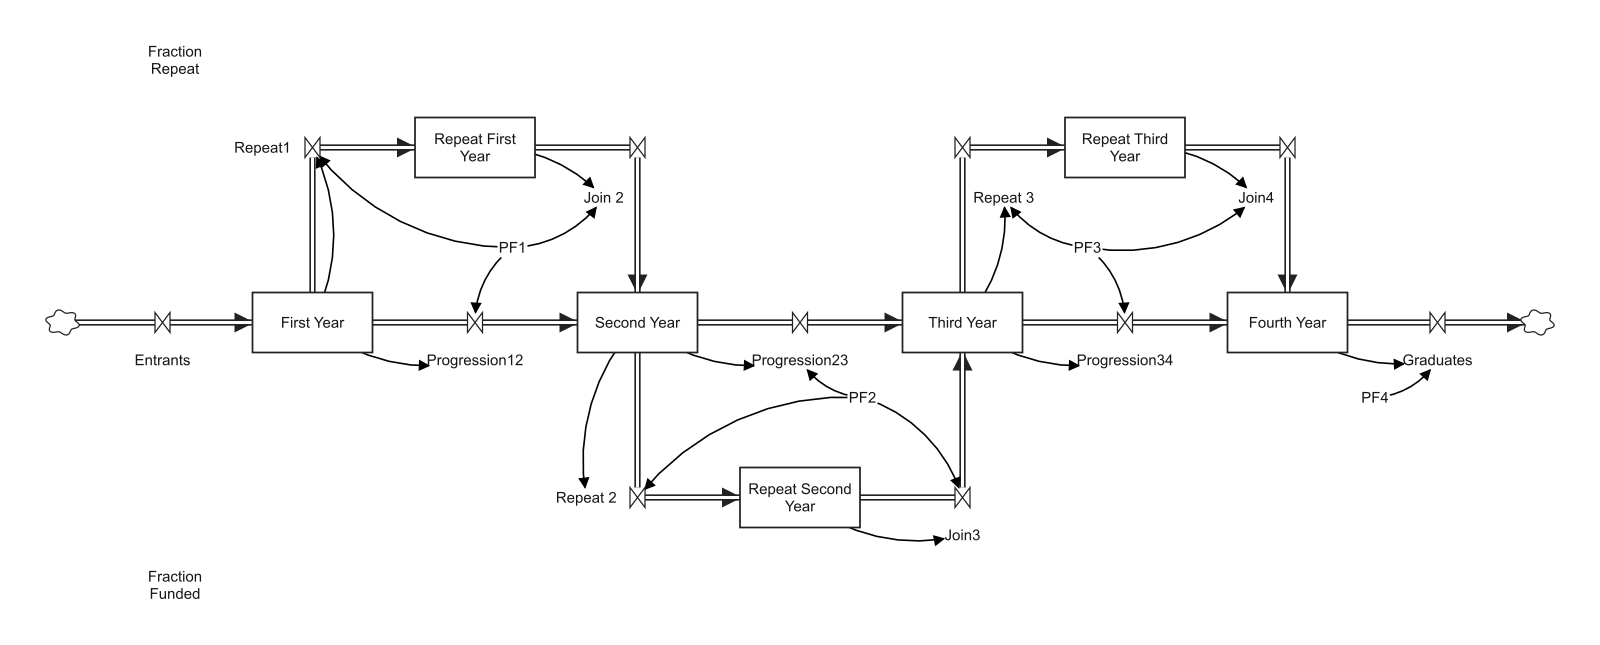
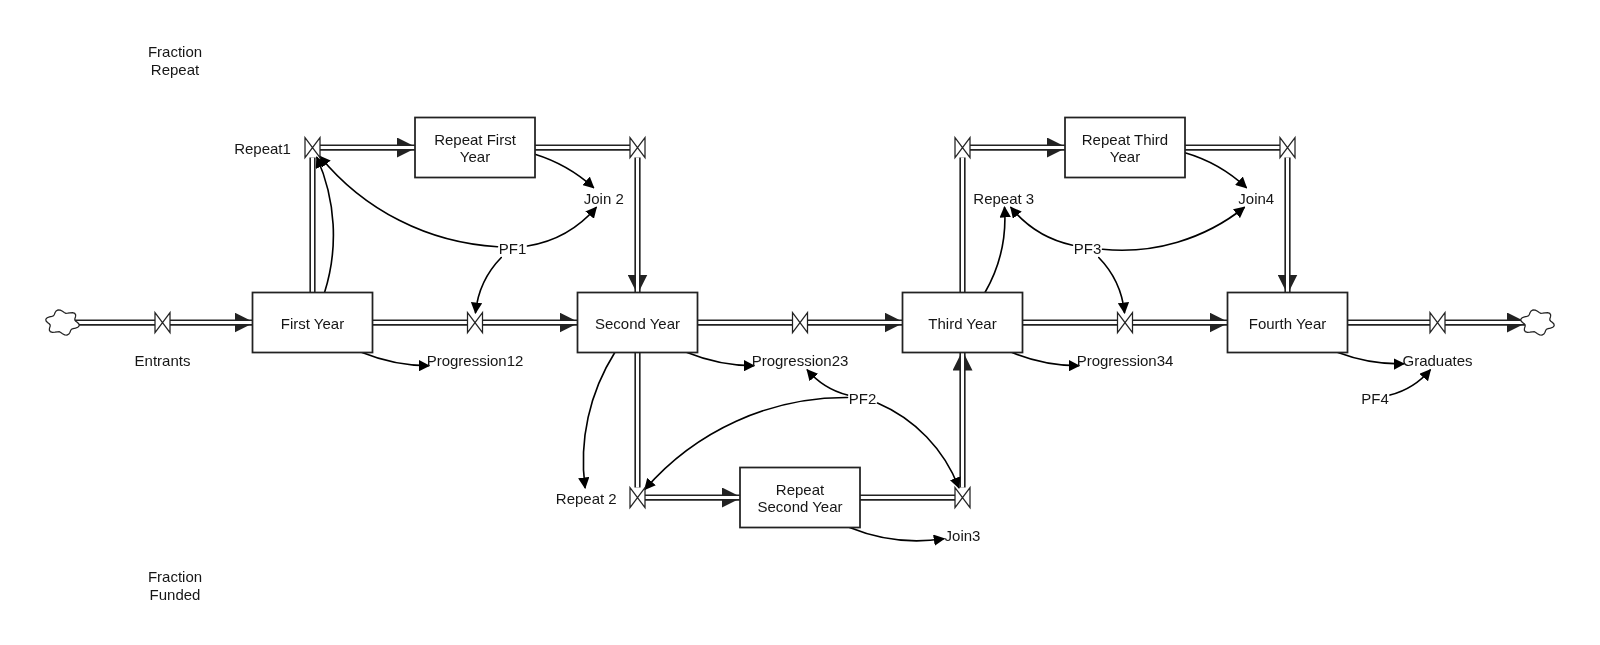
2.7.2: draw preview information links as true SVG arcs with round caps; revert 2.7.1 arc flattening

diff --git a/tests/test_natural_layout.py b/tests/test_natural_layout.py
@@ -258,8 +258,8 @@ def test_soft_arcs_follow_the_k_rule(chains):
     assert max(ratios) <= MAX_ARC_RATIO + 0.01
     curved = [k for k in ratios if k > 0.01]
     assert len(curved) >= len(ratios) * 0.8
-    # 目标 0.08，长箭头矢高限 24px、最低 0.04，减少 Vensim 折线化后的折点
-    assert 0.035 <= sum(curved) / len(curved) <= 0.1
+    # Vensim 官方示例的弧度中位数约 0.14；目标 0.12
+    assert 0.08 <= sum(curved) / len(curved) <= 0.16
 
 
 def test_time_reserved_area_and_initial_values(chains):
@@ -435,9 +435,54 @@ def test_preview_draws_arcs_clouds_and_time_area(tmp_path, chains):
     assert "Short arrows" in html and "Non-native clouds" in html
     after_view = html.split("<h1>After</h1>", 1)[1]
     arcs = [part for part in after_view.split('<path d="M')[1:] if 'marker-end="url(#head' in part]
-    # 圆弧按 0.5px 容差离散为折线：绝大多数信息线应有多于两个点。
-    curved = [part for part in arcs if part.split('"', 1)[0].count(" L") >= 3]
+    # 信息线写成真正的 SVG 圆弧（A 命令），不再拆成短直线段；线端为圆头。
+    curved = [part for part in arcs if " A" in part.split('"', 1)[0]]
     assert arcs and len(curved) >= 0.8 * len(arcs)
+    assert all(" L" not in part.split('"', 1)[0] for part in curved)
+    assert all('stroke-linecap="round"' in part.split("/>", 1)[0] for part in arcs)
+
+
+def _svg_arc_center(x1, y1, r, large, sweep, x2, y2):
+    """SVG 端点参数 → 圆心（圆的情形）。"""
+    mx, my = (x1 + x2) / 2, (y1 + y2) / 2
+    dx, dy = (x2 - x1) / 2, (y2 - y1) / 2
+    half = math.hypot(dx, dy)
+    h = math.sqrt(max(r * r - half * half, 0.0))
+    sign = 1 if large != sweep else -1
+    return mx - sign * h * dy / half, my + sign * h * dx / half
+
+
+def test_preview_arc_matches_native_circle_and_endpoints(chains):
+    from sketch_geometry import arc_svg_data, arrow_path, circle_through
+
+    _source, target = chains
+    view = load_mdl(target)[1][0]
+    checked = 0
+    for arrow in view.arrows:
+        if arrow.is_physical_flow or arrow.shape != 1 or len(arrow.points) != 1:
+            continue
+        path = arrow_path(view, arrow)
+        data = arc_svg_data(view, arrow, path)
+        if " A" not in data:
+            continue
+        move, arc = data[1:].split(" A")
+        x1, y1 = map(float, move.split(","))
+        radii, _rotation, large, sweep, end = arc.split()
+        r, large, sweep = float(radii.split(",")[0]), int(large), int(sweep)
+        x2, y2 = map(float, end.split(","))
+        # 起点、终点与裁剪后的折线完全一致：箭头落点不变
+        assert math.dist((x1, y1), path[0]) < 0.01
+        assert math.dist((x2, y2), path[-1]) < 0.01
+        source, dest = view.objects[arrow.from_id], view.objects[arrow.to_id]
+        center, radius = circle_through((source.x, source.y), arrow.points[0], (dest.x, dest.y))
+        assert abs(r - radius) < 0.01
+        # 标志位选出的圆心就是原生圆弧的圆心：方向没有画反
+        assert math.dist(_svg_arc_center(x1, y1, r, large, sweep, x2, y2), center) < 0.5
+        # 折线中点落在这条圆弧上
+        mid = path[len(path) // 2]
+        assert abs(math.dist(mid, center) - radius) < 0.6
+        checked += 1
+    assert checked >= 5
 
 
 def test_build_defaults_to_natural_with_native_clouds(tmp_path):

diff --git a/skills/vensim-skill/scripts/sketch_geometry.py b/skills/vensim-skill/scripts/sketch_geometry.py
@@ -132,17 +132,27 @@ def lerp(a, b, t):
     return a[0] + (b[0] - a[0]) * t, a[1] + (b[1] - a[1]) * t
 
 
-def circle_path(start, control, end, tolerance=0.5):
-    """经过三个点的圆弧，选取包含控制点的有向弧；共线退化为直线。"""
+def circle_through(start, control, end):
+    """经过三个点的圆，返回 (圆心, 半径)；三点共线时返回 None。"""
     bx, by = control[0] - start[0], control[1] - start[1]
     cx, cy = end[0] - start[0], end[1] - start[1]
     determinant = 2 * (bx * cy - by * cx)
     if abs(determinant) < EPS * max(1, math.hypot(bx, by) * math.hypot(cx, cy)):
-        return [start, end]
+        return None
     ux = (cy * (bx * bx + by * by) - by * (cx * cx + cy * cy)) / determinant
     uy = (bx * (cx * cx + cy * cy) - cx * (bx * bx + by * by)) / determinant
-    center = start[0] + ux, start[1] + uy
-    radius = math.hypot(ux, uy)
+    return (start[0] + ux, start[1] + uy), math.hypot(ux, uy)
+
+
+def circle_path(start, control, end, tolerance=0.5):
+    """经过三个点的圆弧，选取包含控制点的有向弧；共线退化为直线。
+
+    返回的折线只用于碰撞和长度计算；预览输出用 arc_svg_data 画真正的圆弧。
+    """
+    circle = circle_through(start, control, end)
+    if circle is None:
+        return [start, end]
+    center, radius = circle
     first = math.atan2(start[1] - center[1], start[0] - center[0])
     middle = math.atan2(control[1] - center[1], control[0] - center[0])
     last = math.atan2(end[1] - center[1], end[0] - center[0])
@@ -160,6 +170,44 @@ def circle_path(start, control, end, tolerance=0.5):
     ]
     path[0], path[-1] = start, end
     return path
+
+
+def arc_svg_data(view, arrow, path):
+    """信息箭头的 SVG 路径数据。
+
+    单控制点圆弧写成 SVG 椭圆弧命令（A），起点、终点取裁剪后折线的两端，
+    圆心和半径与 circle_path 相同，所以线的位置和箭头落点不变，只是不再
+    由短直线段拼成，放大不会出现折角。直线和其他形状仍按折线输出。
+    """
+    if len(path) < 2:
+        return ""
+    start, end = path[0], path[-1]
+    source, target = view.objects.get(arrow.from_id), view.objects.get(arrow.to_id)
+    circle = None
+    if (
+        source is not None
+        and target is not None
+        and arrow.shape == 1
+        and len(arrow.points) == 1
+        and len(path) > 2
+    ):
+        circle = circle_through((source.x, source.y), arrow.points[0], (target.x, target.y))
+    if circle is None:
+        return "M" + " L".join(f"{x:.2f},{y:.2f}" for x, y in path)
+    center, radius = circle
+    # 沿折线累计转角，得到裁剪后可见弧段的方向和扫角
+    sweep = 0.0
+    previous = math.atan2(path[0][1] - center[1], path[0][0] - center[0])
+    for x, y in path[1:]:
+        angle = math.atan2(y - center[1], x - center[0])
+        sweep += (angle - previous + math.pi) % math.tau - math.pi
+        previous = angle
+    large = 1 if abs(sweep) > math.pi else 0
+    clockwise = 1 if sweep > 0 else 0  # SVG 的 y 轴向下，角度增大即 sweep-flag=1
+    return (
+        f"M{start[0]:.2f},{start[1]:.2f} "
+        f"A{radius:.2f},{radius:.2f} 0 {large} {clockwise} {end[0]:.2f},{end[1]:.2f}"
+    )
 
 
 def trim_path(points, source, target):

diff --git a/skills/vensim-skill/scripts/arc_routing.py b/skills/vensim-skill/scripts/arc_routing.py
@@ -1,14 +1,10 @@
 """信息箭头的圆弧路由：Vensim 普通箭头加一个控制点即画成圆弧。
 
 控制点 = 弦中点 + k·(dy, −dx)，(dx, dy) 为起点中心指向终点中心的向量，|k| 为
-矢高与弦长之比。每条箭头在 0、±0.04、±0.08、±0.12 中选取：先满足与 visual
+矢高与弦长之比。每条箭头在 0、±0.06、±0.12、±0.18 中选取：先满足与 visual
 相同的硬约束（不与其他连线或管道交叉、不穿文字框、不压 <Time> 预留区、
-可见长度不少于 PREFERRED_ARROW、控制点不落进两端文字框），再选接近目标弧度、
+可见长度不少于 PREFERRED_ARROW、控制点不落进两端文字框），再选接近 0.12、
 离文字较远、与同一节点其他箭头张开足够角度的弧。
-
-目标弧度随弦长收紧：Vensim 把圆弧按固定转角（实测约 6°）切成直线段来画，
-弧扫过的角度越大折点越多，放大后像毛刺。短箭头取 0.08，长箭头把矢高限制在
-MAX_SAGITTA 以内，扫角小、折点少，线条更顺。
 """
 
 from __future__ import annotations
@@ -35,23 +31,17 @@ from sketch_geometry import (
 # 圆弧参数
 # ---------------------------------------------------------------------------
 
-# 弧度 k = 矢高 / 弦长，扫角 = 4·atan(2k)。Vensim 官方示例信息线弧度中位数约 0.14
-# （四分位 0.08–0.22）；但 Vensim 按约 6° 一段把圆弧画成折线，k=0.12 的弧扫角 54°、
-# 有 9 个折点，放大后能看到一节一节的毛刺。这里取四分位下沿 0.08（扫角 36°），
-# 长箭头再按 MAX_SAGITTA 收紧，最低 0.04（扫角 18°，约 3 个折点）。
-ARC_RATIOS = (0.04, 0.08, 0.12)
-TARGET_RATIO = 0.08
-MIN_TARGET_RATIO = 0.04
-MAX_ARC_RATIO = 0.12
-MAX_SAGITTA = 24.0  # 长箭头矢高上限（像素）
+# 弧度 k = 矢高 / 弦长。Vensim 官方示例模型中信息线弧度的中位数约 0.14
+# （四分位 0.08–0.22），各弦长区间基本一致；这里取略缓的 0.12 为目标
+ARC_RATIOS = (0.06, 0.12, 0.18)
+TARGET_RATIO = 0.12
+MAX_ARC_RATIO = 0.18
 SPREAD_ANGLE = math.radians(28)
 
 
 def target_ratio(chord: float) -> float:
-    """期望弧度：短箭头取 TARGET_RATIO，长箭头矢高不超过 MAX_SAGITTA，最低 MIN_TARGET_RATIO。"""
-    if chord <= 0:
-        return TARGET_RATIO
-    return max(MIN_TARGET_RATIO, min(TARGET_RATIO, MAX_SAGITTA / chord))
+    """期望弧度；真实模型的弧度与弦长关系不大，统一取 TARGET_RATIO。"""
+    return TARGET_RATIO
 
 
 def control_point(source, target, ratio: float) -> tuple[int, int]:

diff --git a/skills/vensim-skill/scripts/natural_layout.py b/skills/vensim-skill/scripts/natural_layout.py
@@ -27,7 +27,7 @@ import re
 import time
 from collections import Counter, defaultdict
 
-from arc_routing import TARGET_RATIO, arc_ratio, route_arcs
+from arc_routing import arc_ratio, route_arcs
 from sketch_geometry import (
     LAYOUT_CLEARANCE,
     NATIVE_CLOUD_CODE,
@@ -88,11 +88,10 @@ BOUND_MARGIN = 90.0
 ARROW_CLEAR = 7.0  # 直线近似比检查器（6px）多留 1px，给圆弧留余量
 GAP_X, GAP_Y = 14.0, 10.0  # 文字框之间的最小净距
 NARROW_ANGLE = math.radians(20)
-# 过短判断按目标弧度 TARGET_RATIO 估计可见长度：两端切线偏离弦 atan(4k)，宽而扁的
+# 过短判断按目标弧度 k=0.12 估计可见长度：两端切线偏离弦约 26°，宽而扁的
 # 文字框会从上下边离开，可见部分比直线裁剪更长
 SHORT_LIMIT = PREFERRED_ARROW
-ARC_END_TURN = math.atan(4 * TARGET_RATIO)
-ARC_LENGTH_FACTOR = 1 + 8 * TARGET_RATIO**2 / 3  # 弧长 ≈ 弦长 × (1 + 8k²/3)
+ARC_END_TURN = math.atan(4 * 0.12)
 SEED_ATTEMPTS = 3  # 仍有缺陷时换种子重跑的总次数
 LARGE_VIEW = 80  # 对象数超过此值的视图减少重跑、打磨与拆分试验，控制耗时
 W_MARKER = 3.0  # 回路标记偏离所属回路中心的代价（每像素）
@@ -724,9 +723,8 @@ def arc_visible_length(x1, y1, w1, h1, x2, y2, w2, h2):
     best = chord - _exit(w1, h1, theta) - _exit(w2, h2, theta)
     for sign in (1, -1):
         turn = sign * ARC_END_TURN
-        value = (
-            chord * ARC_LENGTH_FACTOR - _exit(w1, h1, theta + turn) - _exit(w2, h2, theta - turn)
-        )
+        # 弧长 ≈ 弦长 × (1 + 8k²/3)，k=0.12 时约 1.038
+        value = chord * 1.038 - _exit(w1, h1, theta + turn) - _exit(w2, h2, theta - turn)
         best = max(best, value)
     return best
 

diff --git a/skills/vensim-skill/scripts/sketch_preview.py b/skills/vensim-skill/scripts/sketch_preview.py
@@ -10,6 +10,7 @@ from mdl_document import atomic_write, separate_output
 from sketch_geometry import (
     LINE_HEIGHT,
     NATIVE_CLOUD_CODE,
+    arc_svg_data,
     arrow_path,
     bounds,
     box,
@@ -141,10 +142,11 @@ def view_svg(view, lines, show_ids=False):
         path = paths.get(arrow.obj_id, [])
         if not path or arrow.is_physical_flow:
             continue
-        data = "M" + " L".join(f"{x:.2f},{y:.2f}" for x, y in path)
+        data = arc_svg_data(view, arrow, path)
         color = _color(arrow.fields[11])
         parts.append(
-            f'<path d="{data}" fill="none" stroke="{color}" stroke-width="1.3" marker-end="url(#head)"/>'
+            f'<path d="{data}" fill="none" stroke="{color}" stroke-width="1.3" '
+            'stroke-linecap="round" stroke-linejoin="round" marker-end="url(#head)"/>'
         )
         polarity = int(arrow.fields[6] or 0)
         if 32 <= polarity <= 126:

diff --git a/tests/test_skill_distribution.py b/tests/test_skill_distribution.py
@@ -46,7 +46,7 @@ def test_machine_readable_versions_stay_in_sync():
     skill_version = re.search(r"^\s+version:\s*[\"']([^\"']+)", skill, re.MULTILINE)
     project_version = re.search(r"^version\s*=\s*[\"']([^\"']+)", pyproject, re.MULTILINE)
     assert skill_version and project_version
-    assert skill_version.group(1) == project_version.group(1) == "2.7.1"
+    assert skill_version.group(1) == project_version.group(1) == "2.7.2"
 
 
 def test_local_document_links_resolve():

diff --git a/README.en.md b/README.en.md
@@ -1,6 +1,6 @@
 # Vensim System Dynamics Skill
 
-![Version](https://img.shields.io/badge/version-2.7.1-2f6f9f)
+![Version](https://img.shields.io/badge/version-2.7.2-2f6f9f)
 ![Python](https://img.shields.io/badge/python-3.10%2B-3776ab)
 ![License](https://img.shields.io/badge/license-source--available%20%7C%20commercial%20paid-8a8a8a)
 
@@ -127,7 +127,7 @@ Commands refuse to overwrite existing outputs; use a new name when re-running.
 Main rules and their sources:
 
 - Stock boxes are at least 96×48 (median about 104×56 in Vensim's own examples) and Chinese names of up to ten characters stay on one row (longer ones wrap into two rows of similar length); cloud to valve is 80 px, valve to stock at least 120 px (medians of 76 px and 124 px in Vensim's own examples).
-- Information links are single-control-point arcs with a target bow (sagitta/chord) of 0.08, sagitta capped at 24 px on long links (Vensim draws arcs as ~6° line segments, so flatter arcs look smoother); straight lines only where an arc would cross or graze text.
+- Information links are single-control-point arcs with a target bow (sagitta/chord) of 0.12 (median 0.14 in the official examples); straight lines only where an arc would cross or graze text.
 - Stock chains run horizontally with at least 200 px between rows (textbook median about 180 px). Flows that skip a stock become a detour branch or a right-angle bypass pipe, both taken from Duggan's diagrams.
 - R/B loop markers are placeholder nodes during layout: pulled to the centre of their own loop, kept inside it, with other variables arranged around them, and the circle turns the way the loop runs; hidden variables are skipped together with their arrows (Vensim Hide/unhide).
 - Every link carries a polarity sign, as a rule (since 2.6.0). Signs the equations cannot give come from numeric partial derivatives along the base run; any still unknown (time switches, smoothing times, ratios whose denominator can change sign) are written in `links` by the modeller with the conditions under which they hold; for an existing MDL, `fix --apply-polarity` writes the derivable signs and lists the rest; see [FEEDBACK.md](skills/vensim-skill/references/FEEDBACK.md) (Chinese).

diff --git a/README.md b/README.md
@@ -1,6 +1,6 @@
 # Vensim System Dynamics Skill
 
-![Version](https://img.shields.io/badge/version-2.7.1-2f6f9f)
+![Version](https://img.shields.io/badge/version-2.7.2-2f6f9f)
 ![Python](https://img.shields.io/badge/python-3.10%2B-3776ab)
 ![License](https://img.shields.io/badge/license-source--available%20%7C%20commercial%20paid-8a8a8a)
 
@@ -127,7 +127,7 @@ cd vensim-system-dynamics-skill/skills/vensim-skill
 几条主要规则和依据：
 
 - 存量方框最小 96×48（官方示例中位数约 104×56），中文名 10 个字以内一行写完，更长的折成长度相近的两行；云到阀门 80px，阀门到存量不少于 120px（官方示例中位数 76px、124px）。
-- 信息线是单控制点圆弧，弧度（矢高/弦长）目标 0.08，长箭头矢高不超过 24px（Vensim 按约 6° 一段把圆弧画成折线，弧缓一些线条更顺）；只在弧线会交叉或擦字时用直线。
+- 信息线是单控制点圆弧，弧度（矢高/弦长）目标 0.12（官方示例中位数 0.14）；只在弧线会交叉或擦字时用直线。
 - 存量链水平排列，相邻两行中心至少隔 200px（教材模型中位数约 180px）。跳过中间存量的流量画成绕行支路或直角折线管道，两种画法都取自 Duggan 教材原图。
 - R/B 回路标记在排版时是占位的节点：被所属回路的中心吸引、落在回路里面，其他变量围绕它排布，圈的方向按回路走向画；隐藏的变量连同进出箭头一起不画（Vensim Hide/unhide 文档）。
 - 每条箭头都标正负号，这是原则性要求（2.6.0 起）。方程推不出的用基准运行数值偏导，再推不出的（时间开关、平滑时间、分母可正可负的比值）由建模者在 `links` 里写明并注明成立条件；已有 MDL 用 `fix --apply-polarity` 补写推得出的符号，推不出的会逐条列出。规则见 [FEEDBACK.md](skills/vensim-skill/references/FEEDBACK.md)。

diff --git a/skills/vensim-skill/references/APPEARANCE.md b/skills/vensim-skill/references/APPEARANCE.md
@@ -20,10 +20,12 @@
 | --- | --- | --- |
 | 云中心到阀门 | 80px | 中位数 76px |
 | 阀门到存量中心 | 不少于 120px，流量名较长时加宽 | 中位数 124px |
-| 弧度 k（矢高/弦长） | 目标 0.08，长箭头矢高不超过 24px（k 最低 0.04），可选 0.04、0.08、0.12，必要时直线 | 中位数 0.14，四分位 0.08–0.22；Vensim 按约 6° 一段把圆弧画成折线，弧越弯折点越多，放大后像毛刺，所以取四分位下沿 |
+| 弧度 k（矢高/弦长） | 目标 0.12，可选 0.06、0.18，必要时直线 | 中位数 0.14，四分位 0.08–0.22，各弦长区间基本一致 |
 | 直线占比 | 只在弧线会交叉或擦字时使用 | 研究、教材、官方示例的每模型直线占比中位数分别为 14%、16%、13%（测试模型多为直线，不参与统计） |
 | 箭头可见长度 | 生成时不少于 38px；检查时低于 20px 判为不合格 | 官方示例最短的 5% 约 12px，教材约 30px |
 | 连线与文字净距 | 生成时 6px；检查时 3px | 官方示例约 10% 的连线离其他文字不到 5px |
+
+`preview` 导出的 SVG 把单控制点圆弧写成真正的圆弧命令，圆心和半径与 Vensim 的三点圆相同，线端为圆头；排版和碰撞检查内部仍用 0.5px 容差的折线近似。
 
 两端文字框贴得很近时，弧线的可见部分只剩一小段，20px 下限用来拦住这种情况。方程直接引用 Time、又没有画出 Time 箭头的变量，Vensim 会在它正下方约 29px 处自动加灰色 `<Time>`，排版时要预留这块位置。
 

diff --git a/CHANGELOG.md b/CHANGELOG.md
@@ -1,5 +1,15 @@
 # 更新记录
 
+## 2.7.2
+
+预览导出
+- `preview` 的 SVG/HTML 里，信息线以前按 0.5px 容差拆成多段短直线（`M … L … L …`），放大后能看到一节一节的折角。现在单控制点圆弧直接写成 SVG 圆弧命令 `A`，圆心、半径取自原生三点圆，起点、终点和箭头落点与原来完全一致；线端和拐角改为圆头（`stroke-linecap`/`stroke-linejoin="round"`）。直线和多控制点箭头仍按原样输出。
+- 新增 `arc_svg_data`、`circle_through`；碰撞与长度计算仍用折线，排版结果不变。
+- README 里的五张结构图（三个中文示例和 Student Flows 前后对比）用新预览重新导出，版面不变，弧线不再有折角。
+
+撤回 2.7.1
+- 2.7.1 把信息线弧度目标从 0.12 降到 0.08，是按“Vensim 把圆弧画成折线”的错误判断做的。毛刺实际来自预览导出，弧度恢复为 2.7.0 的 0.12（可选 0.06、0.18），排版与 2.7.0 相同。
+
 ## 2.7.1
 
 排版

diff --git a/skills/vensim-skill/SKILL.md b/skills/vensim-skill/SKILL.md
@@ -3,7 +3,7 @@ name: vensim-skill
 description: "Build, lay out, check and simulate Vensim system dynamics models (.mdl). Use when the user wants a stock-and-flow or causal loop diagram in Vensim, needs an existing MDL tidied (overlapping labels, crossing arrows, messy views), wants polarity and R/B loop checks, or needs reproducible simulation, scenario, sensitivity, calibration or policy runs with publication-quality Python plots. Chinese variable names by default; Windows, macOS and Linux."
 license: "Source-available; free for personal learning and non-commercial research; commercial use requires a paid license (2040168455@qq.com); see LICENSE"
 metadata:
-  version: "2.7.1"
+  version: "2.7.2"
 ---
 
 # Vensim 建模、排版与仿真
